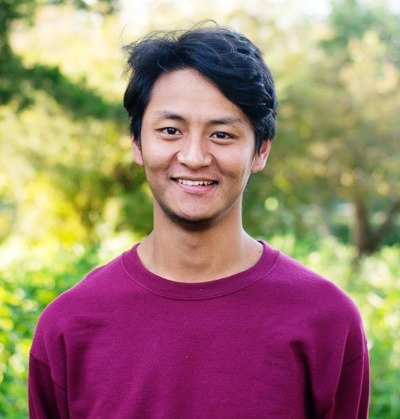
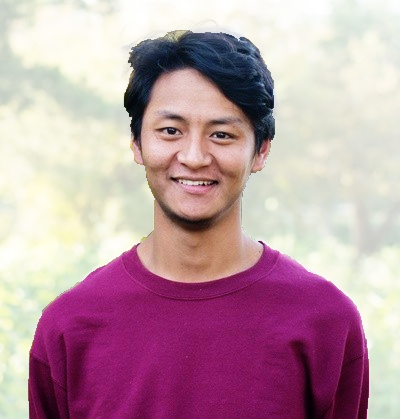
STYLE: changed the look of the homepage

diff --git a/index.css b/index.css
@@ -5,7 +5,7 @@ body {
 /* biggets parent container */
 .homepage {
     height: 100vh;
-    background-image: url("./images/homepage/bkg.jpg");
+    background-image: url("./images/homepage/bkg.jpeg");
     background-size: cover;
     background-repeat: no-repeat;
     background-position: center;
@@ -18,18 +18,58 @@ body {
 .homepage-slogan {
     text-align: center;
     font-family: "Major Mono Display", sans-serif;
-    margin-top: 200px
+    margin-top: 200px;
+    display: inline-block;
+}
+/*.homepage-slogan img{
+	border-radius: 50%; 
+	width:100px
+}
+*/
+.typewriter-text {
+    display: inline-block;
+  	overflow: hidden;
+  	letter-spacing: 2px;
+ 	animation: typing 5s steps(30, end), blink .75s step-end infinite;
+    white-space: nowrap;
+    /*font-size: 30px;*/
+    font-weight: 400;
+    border-right: 4px solid orange;
+    box-sizing: border-box;
+}
+
+@keyframes typing {
+    from { 
+        width: 0% 
+    }
+    to { 
+        width: 100% 
+    }
+}
+
+@keyframes blink {
+    from, to { 
+        border-color: transparent 
+    }
+    50% { 
+        border-color: orange; 
+    }
 }
 
 /* this is phuntsho norbu */
 .name-title {
     font-size: 100px;
-    color: rgba(255, 255, 255, 0.541);
+    color: rgba(255, 255, 255, 1);
 }
 
 /* a goof since 1995 */
 .tagline {
-    color: white
+    color: white;
+    margin-top:30px;
+}
+.tagline a:hover{
+	background-color: #ff9900 !important;
+	transition: all ease 220ms;
 }
 
 /* explore button under the tagline*/
@@ -176,6 +216,26 @@ body {
   and (min-device-width: 320px) 
   and (max-device-width: 800px)
   and (-webkit-min-device-pixel-ratio: 2) {
+  	.homepage-slogan img{
+		border-radius: 50%; 
+		width:300px
+	}
+	.name-title {
+	    font-size: 140px;
+	    margin-top: 200px;
+	}
+
+	/* a goof since 1995 */
+	.tagline {
+		font-size: 35px !important;
+	    color: white; 
+	    margin: 50px 0px;
+	}
+	.fa-question-circle{
+		font-size: 50px !important;
+		color: rgba(255, 255, 255, 0.541) !important;
+	}
+
   	.sections{
   		height: 500px;
   		padding-top:70px;
@@ -198,6 +258,8 @@ body {
   		padding:15px 30px;
   		border-radius: 80px;
   	}
+
+
 
 }
 

diff --git a/index.html b/index.html
@@ -27,12 +27,12 @@
             <div class="container">
                 <div class="row">
                     <div class="col-md-12 homepage-slogan">
-                    	<img src="./images/homepage/self.png" style="border-radius: 50%; width:130px"/>
-                        <p class="name-title">ཕུན་ཚོགས་ནོར་བུ།</p>
+                    	<!-- <img src="./images/homepage/self.png" /> -->
+                        <p class="name-title typewriter-text">ཕུན་ཚོགས་ནོར་བུ།</p>
                         <p class="tagline">
-                            thomas j. watson fellow <a href="https://watson.foundation/fellowships/tj" target="_"><i class="far fa-question-circle" style="color: gray"></i></a>
+                            <a href="https://watson.foundation/fellowships/tj" target="_" style="color:white; padding: 15px; background-color: red;">thomas j watson fellow <i class="far fa-arrow-alt-circle-right"></i></a>
                         </p>
-                        <p class="tagline" style="font-size: small">A Goof since 1995</p>
+                        <p class="tagline" style="font-size: small;"><span style="background-color: red; padding:15px">A Goof since 1995<span></p>
                         <br />
                         <!-- <button type="button" class="btn btn-warning explore-button">Explore</button> -->
                     </div>
